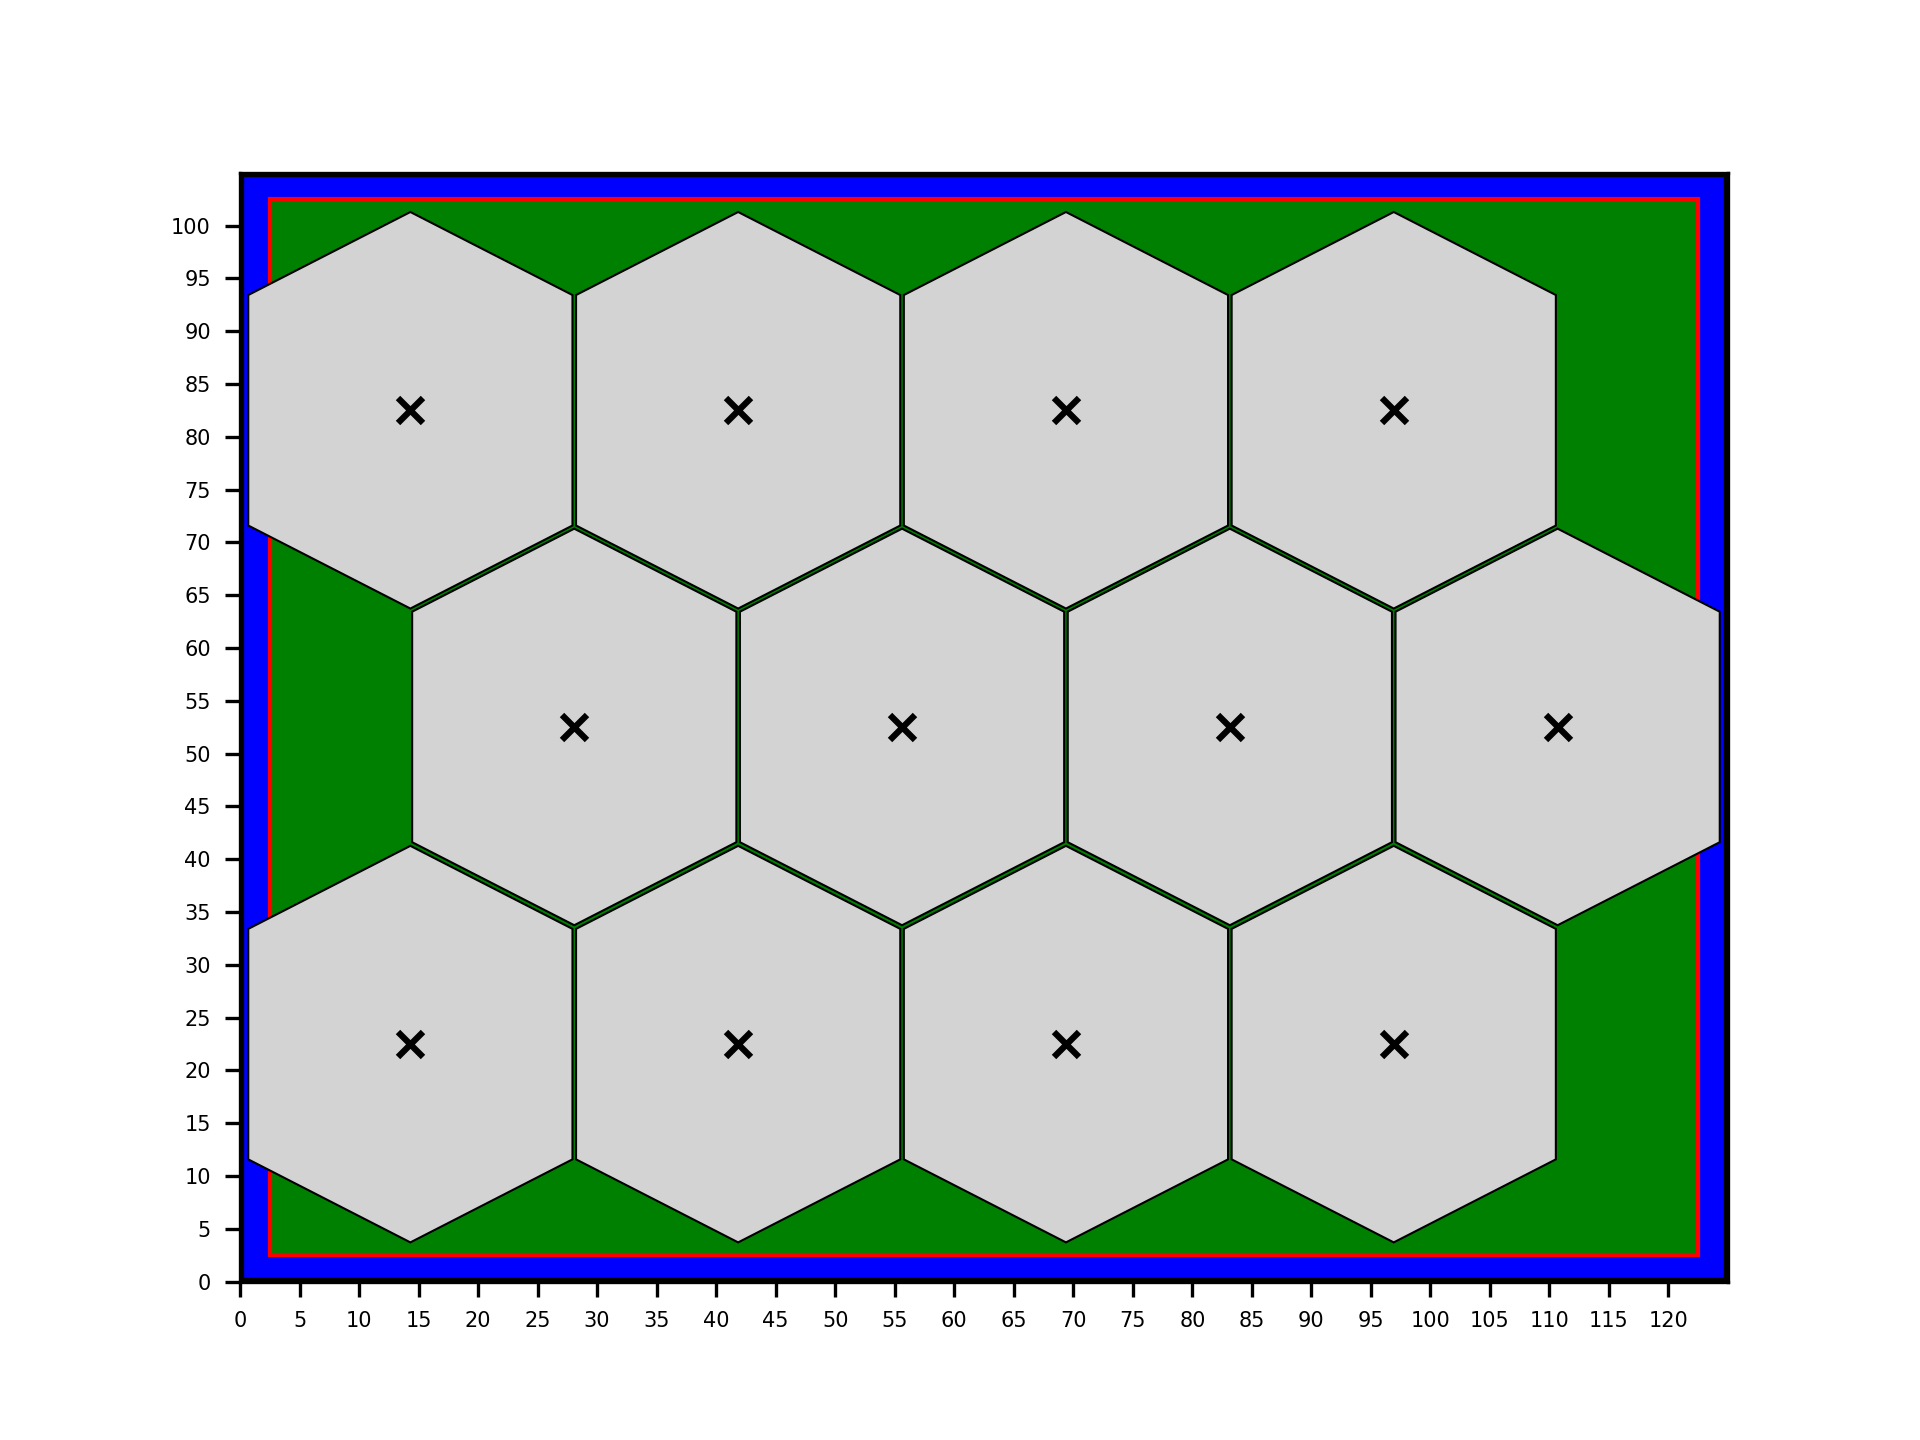
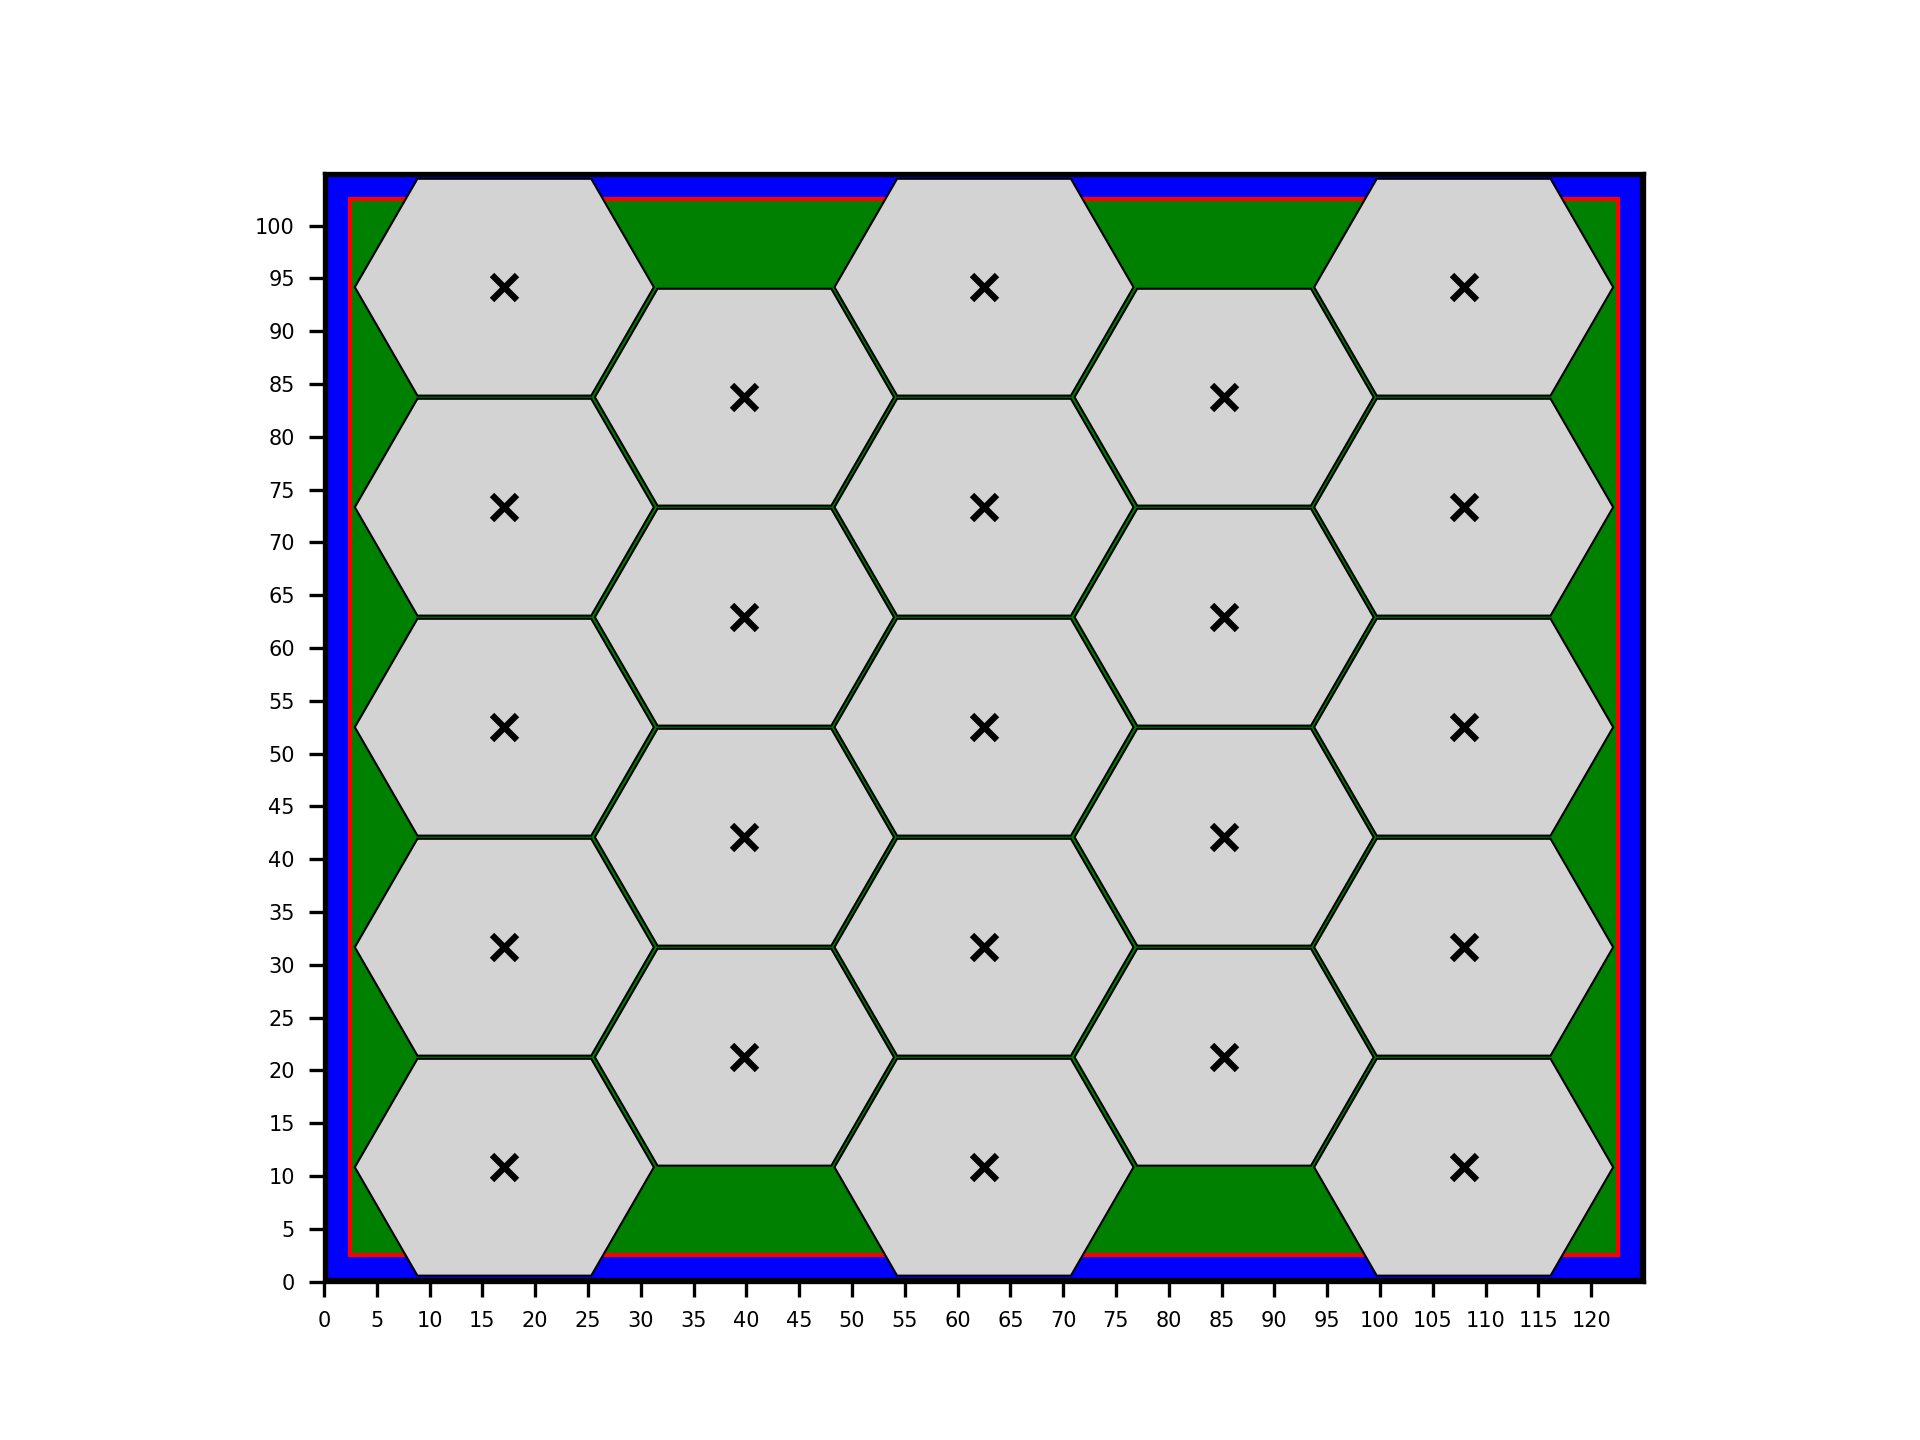
updates

diff --git a/GUI_main.py b/GUI_main.py
@@ -1,11 +1,9 @@
 from folder_1.CalculateDimension import calculate_hexagon_dimensions as cd
 from folder_2.CalculateDimension import calculate_rectangle_dimensions as cd2
 import tkinter as tk
-from tkinter import messagebox
 from tkinter import ttk
 import pandas as pd
 from PIL import ImageTk, Image
-import math
 from folder_2.Draw import draw_rectangles as draw_rects
 from folder_1.Draw import draw_hexagons as draw_hexs
 import csv
@@ -22,7 +20,7 @@ class App:
         elif float(dest)  > 40 and float(dest)  <= 50:
             compo_list = ["6-7-8-9-8-7-6", "5-6-7-8-7-6-5", "4-5-6-5-4"]
         elif float(dest)  > 50 and float(dest)  <= 70:
-            compo_list = ["4-5-6-5-4"]
+            compo_list = ["3-4-5-4-3"]
         elif float(dest)  > 70:
             compo_list = ["3-4-3"]
 
@@ -37,6 +35,7 @@ class App:
                 total = len(hexagons)
                 single = sum([int(i) for i in compo_list[i].split('-')])
                 total_tubes_1 =  single * total
+                
                 if single * weight < 25:
                     if total_tubes_1 > max_found:
                         max_found = total_tubes_1
@@ -48,8 +47,7 @@ class App:
                     console_log.insert(tk.END, log_msg)
                     console_log.config(state="disabled")
                     return -1
-
-
+                
         log_msg = "**********************************************************************\n"
         log_msg += f"Composizioni consigliate per il tubo di diametro {dest} mm:\n"
         log_msg += f"\n- Forma esagonale: {best_compo} - Peso: {round(sum([int(i) for i in best_compo.split('-')]) * weight, 2)} Kg - Tubi totali: {max_found}\n"
@@ -61,7 +59,6 @@ class App:
         draw_hexs(best_hex)
 
         return max_found
-    
     
     def save_on_csv_hex(self, hexagons):
         with open('coordinate_esagoni.csv', 'w', newline='') as csvfile:
@@ -143,7 +140,6 @@ class App:
         console_log.config(state="disabled")
         return single*total
 
-
     def __init__(self, master):
         self.master = master
         master.title("Tubi")
@@ -186,8 +182,8 @@ class App:
         diameter = float(diameters_float[1])
         weight = float(diameters_float[3])
         total_actual_hexagon = self.actual_hexagon_test(weight, diameter, self.console_log, actual_compo)
-        total_hexagon = self.hexagon_test(weight, diameter, self.console_log, total_actual_hexagon)
-        total_rectangle = self.rectangle_test(weight, diameter, self.console_log, total_actual_hexagon)
+        self.hexagon_test(weight, diameter, self.console_log, total_actual_hexagon)
+        self.rectangle_test(weight, diameter, self.console_log, total_actual_hexagon)
 
     def show_images_function(self):
         self.show_images("folder_1/images/hex.png", "folder_2/images/rect.png")
@@ -203,10 +199,6 @@ class App:
         
         diameters = df[["d_int", "d_est", "lunghezza", "peso_uni", "compo_fascio"]].values.tolist()
         return diameters
-
-
-
-
     
     def checkfloat(self, string):
         try:
@@ -239,7 +231,6 @@ class App:
         # Avvia il loop dell'interfaccia grafica
         image_window.mainloop()
     
-
 root = tk.Tk()
 root.geometry("568x400")
 root.resizable(False, False)

diff --git a/folder_1/CalculateDimension.py b/folder_1/CalculateDimension.py
@@ -42,22 +42,23 @@ def calculate_hexagon_dimensions(radius, n_rows, rows_array, index):
 
     if len(rows_array) == 7:
         if rows_array[0] == 5:
-            frame = m.compute(radius * 16.314, radius * 12.394, radius * 9.158, index)
+            frame = m.compute(radius * 16.312, radius * 12.392, radius * 9.156, index)
             return frame
         else:
             frame = m.compute(radius * 18.312, radius * 12.392, radius * 11.156, index)
             return frame
         
     if len(rows_array) == 5:
-        print(radius*8.93)
-        print(radius*12.312)
-        print(radius*7.156)
-        frame = m.compute(radius * 12.312, radius * 8.93, radius * 7.156, index)
-        return frame
+        if rows_array[0] == 4:
+            frame = m.compute(radius * 12.312, radius * 8.928, radius * 7.156, index)
+            return frame
+        else:
+            frame = m.compute(radius * 10.312 , radius * 8.928, radius * 5.156, index)
+            return frame
 
     if len(rows_array) == 3:
 
-        frame = m.compute(radius * 8.32, radius * 5.472, radius * 5.161, index)
+        frame = m.compute(radius * 8.32, radius * 5.472, radius * 5.156, index)
         return frame
 
     frame = m.compute(B_max, h_max * 2, b_max, index)

diff --git a/folder_1/Draw.py b/folder_1/Draw.py
@@ -59,6 +59,9 @@ def draw_hexagons(hexagons):
     # Decrease the font size of y-axis labels
     axis.set_yticklabels(axis.get_yticklabels(), fontsize=5)
 
+    # Set the aspect ratio to 'equal'
+    ax.set_aspect('equal')
+
 
     
 

diff --git a/folder_2/Draw.py b/folder_2/Draw.py
@@ -61,7 +61,8 @@ def draw_rectangles(rectangles):
 
 
     
-
+    # Set the aspect ratio to 'equal'
+    ax.set_aspect('equal')
     
     
 
